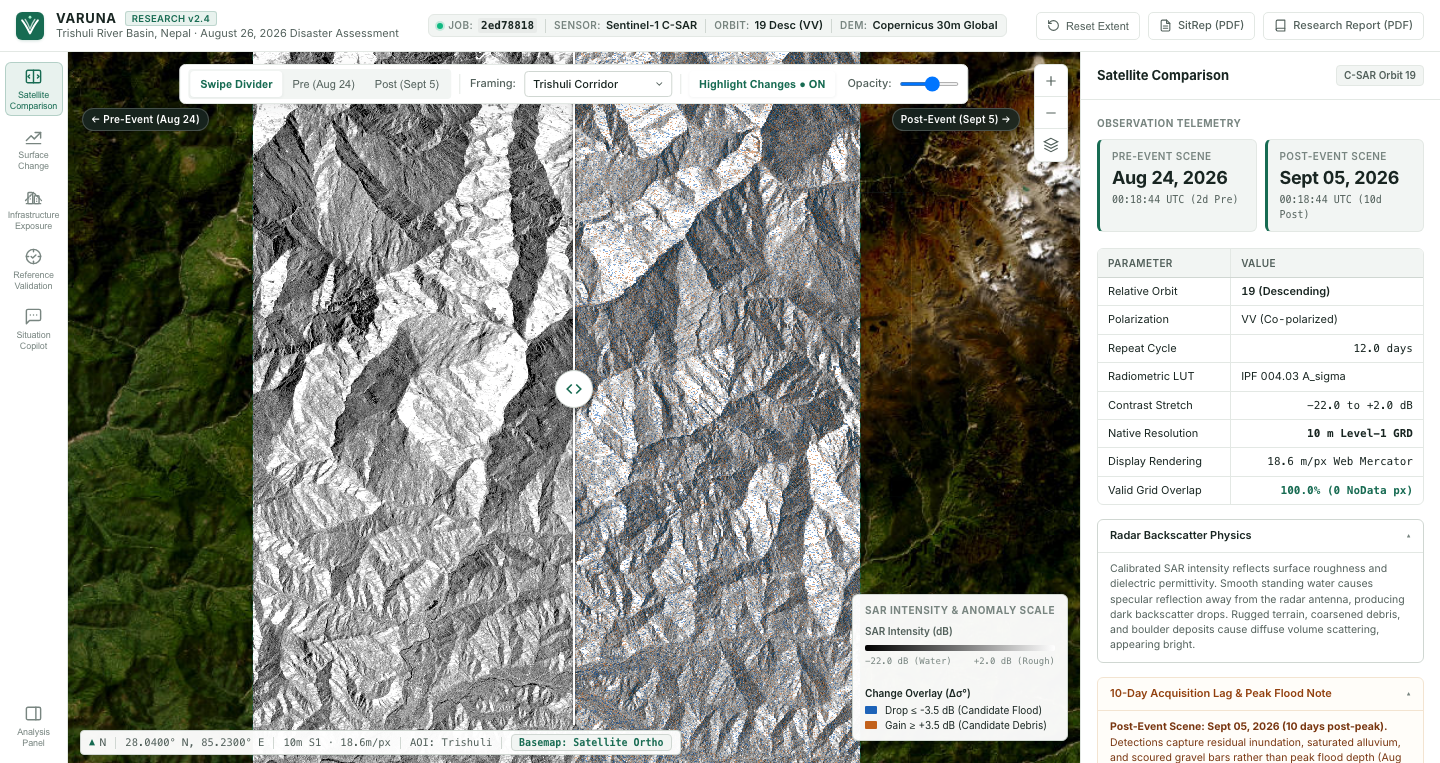
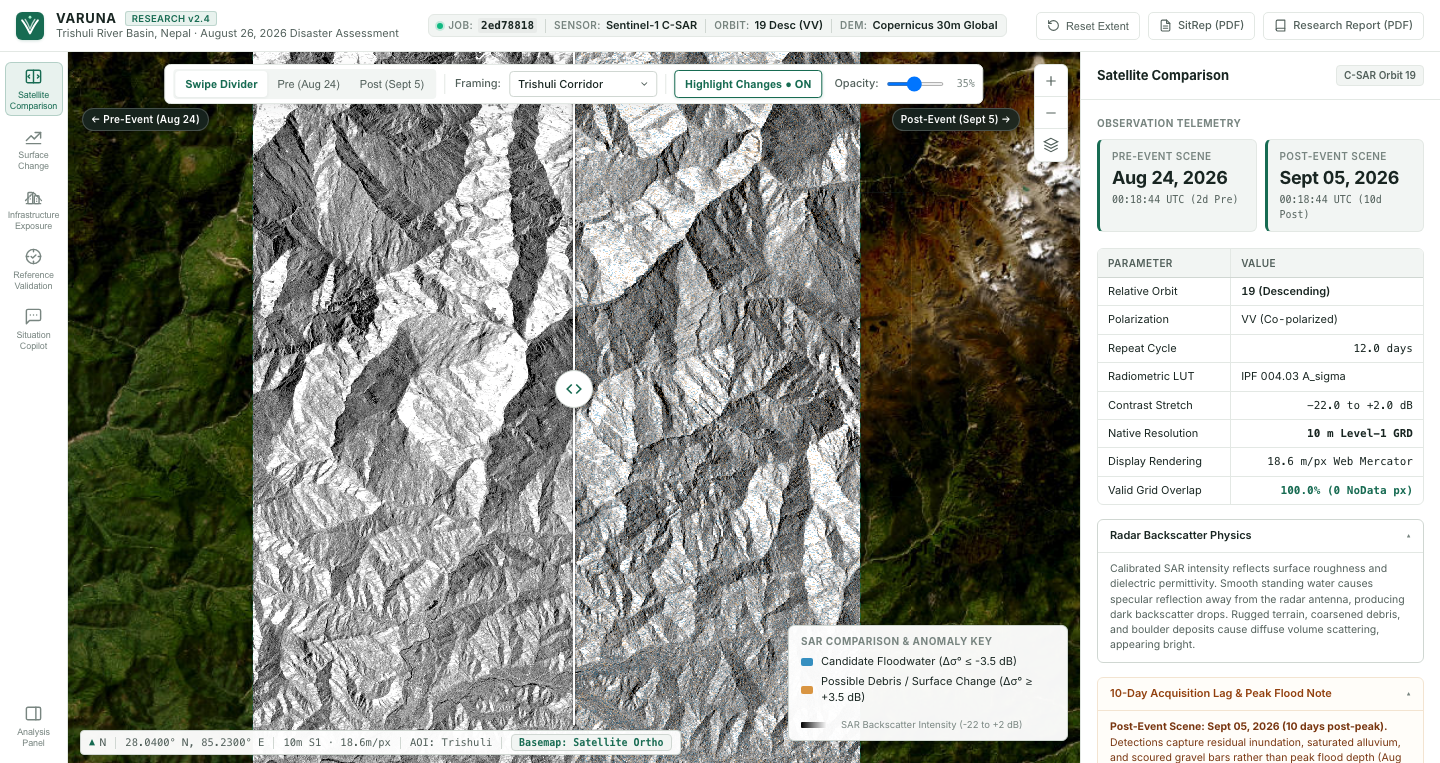
feat(comparison): refine satellite comparison with authentic SAR change highlight overlay (muted cyan/amber, 35% opacity, swipe synced)

Changed region(s): [[0.4062, 0.0904, 0.75, 1.0], [0.0938, 0.0904, 0.4375, 0.1507], [0.4375, 0.9948, 0.4688, 1.0]]

diff --git a/dashboard/app.js b/dashboard/app.js
@@ -16,8 +16,8 @@
     swipePosition: 0.5,            // 0.0 to 1.0 (fraction of map width)
     comparisonMode: 'swipe',       // 'swipe' | 'pre' | 'post'
     comparisonSector: 'full',      // 'full' | 'corridor' | 'aoi03' | 'aoi01'
-    highlightChanges: false,       // Authentic SAR backscatter change overlay (blue flood / orange debris)
-    highlightOpacity: 0.65,        // Overlay opacity for change interpretation
+    highlightChanges: false,       // Authentic SAR backscatter change overlay (muted blue flood / soft amber debris)
+    highlightOpacity: 0.35,        // Default 35% opacity for subtle, professional overlay (range 0% to 75%)
     copilotLang: 'en',             // 'en' | 'ne'
     panelOpen: true,
     inspectedFeature: null
@@ -124,6 +124,12 @@
     sarUnderlay: L.imageOverlay('rasters/s1_post_intensity_half.webp', RASTER_BOUNDS, {
       pane: 'paneSarUnderlay',
       opacity: 0.55,
+      interactive: false
+    }),
+    changeHighlight: L.imageOverlay('rasters/sar_change_highlight_half.png', RASTER_BOUNDS, {
+      pane: 'paneHazardRaster',
+      opacity: state.highlightOpacity,
+      className: 'layer-sar-change-highlight',
       interactive: false
     }),
     classified: L.imageOverlay('rasters/hazard_classified_half.png', RASTER_BOUNDS, {
@@ -332,7 +338,7 @@
     if (swipeLine) swipeLine.style.left = `${x}px`;
 
     const postEl = rasters.post.getElement();
-    const classEl = (state.highlightChanges && map.hasLayer(rasters.classified)) ? rasters.classified.getElement() : null;
+    const classEl = (state.highlightChanges && map.hasLayer(rasters.changeHighlight)) ? rasters.changeHighlight.getElement() : null;
     if (!postEl) return;
 
     if (state.comparisonMode === 'pre') {
@@ -466,8 +472,8 @@
       rasters.pre.addTo(map);
       rasters.post.addTo(map);
       if (state.highlightChanges) {
-        rasters.classified.setOpacity(state.highlightOpacity);
-        rasters.classified.addTo(map);
+        rasters.changeHighlight.setOpacity(state.highlightOpacity);
+        rasters.changeHighlight.addTo(map);
       }
       if (state.comparisonMode === 'swipe') {
         swipeContainer.classList.add('active');
@@ -562,10 +568,11 @@
           <option value="aoi01" ${state.comparisonSector === 'aoi01' ? 'selected' : ''}>Syapru Besi (AOI01)</option>
         </select>
         <div class="toolbar-divider"></div>
-        <button class="toolbar-segment-btn ${state.highlightChanges ? 'active' : ''}" id="btnToggleHighlightChanges" title="Toggle authentic SAR backscatter-change overlay (blue flood / orange debris)">Highlight Changes ${state.highlightChanges ? '● ON' : '○ OFF'}</button>
+        <button class="toolbar-segment-btn highlight-toggle ${state.highlightChanges ? 'active' : ''}" id="btnToggleHighlightChanges" title="Toggle authentic SAR backscatter change overlay (35% default opacity)">Highlight Changes ${state.highlightChanges ? '● ON' : '○ OFF'}</button>
         ${state.highlightChanges ? `
           <span class="toolbar-control-label" style="margin-left:4px;">Opacity:</span>
-          <input type="range" id="rngHighlightOpacity" min="20" max="100" value="${Math.round(state.highlightOpacity * 100)}" style="width:60px; height:4px; vertical-align:middle; cursor:pointer;" title="Change Overlay Opacity">
+          <input type="range" id="rngHighlightOpacity" min="0" max="75" value="${Math.round(state.highlightOpacity * 100)}" style="width:58px; height:4px; vertical-align:middle; cursor:pointer;" title="Adjust Change Overlay Opacity (0% - 75%)">
+          <span id="valHighlightOpacity" style="font-size:10px; font-family:var(--font-mono); color:var(--text-tertiary); width:24px; text-align:right;">${Math.round(state.highlightOpacity * 100)}%</span>
         ` : ''}
       `;
     } else if (ws === 'change') {
@@ -706,15 +713,17 @@
         btnHighlight.addEventListener('click', () => {
           state.highlightChanges = !state.highlightChanges;
           if (state.highlightChanges) {
-            rasters.classified.setOpacity(state.highlightOpacity);
-            rasters.classified.addTo(map);
+            rasters.changeHighlight.setOpacity(state.highlightOpacity);
+            rasters.changeHighlight.addTo(map);
             if (state.comparisonSector === 'full') {
               state.comparisonSector = 'corridor';
               map.fitBounds(EXTENTS.corridor.bounds, { padding: [15, 15] });
+              const selCompPreset = document.getElementById('selCompPreset');
+              if (selCompPreset) selCompPreset.value = 'corridor';
             }
           } else {
-            if (map.hasLayer(rasters.classified)) {
-              map.removeLayer(rasters.classified);
+            if (map.hasLayer(rasters.changeHighlight)) {
+              map.removeLayer(rasters.changeHighlight);
             }
           }
           updateSwipeDivider();
@@ -727,7 +736,9 @@
       if (rngHighlight) {
         rngHighlight.addEventListener('input', (e) => {
           state.highlightOpacity = parseFloat(e.target.value) / 100.0;
-          rasters.classified.setOpacity(state.highlightOpacity);
+          rasters.changeHighlight.setOpacity(state.highlightOpacity);
+          const valEl = document.getElementById('valHighlightOpacity');
+          if (valEl) valEl.textContent = `${Math.round(state.highlightOpacity * 100)}%`;
         });
       }
     } else if (ws === 'change') {
@@ -1435,20 +1446,19 @@ Generated: 2026-10-14 UTC | Disaster Date: August 26, 2026 | Sensor: Sentinel-1 
 
     if (ws === 'comparison') {
       if (state.highlightChanges) {
-        legendTitle.textContent = 'SAR Intensity & Anomaly Scale';
+        legendTitle.textContent = 'SAR Comparison & Anomaly Key';
         html = `
-          <div style="font-size:10px; font-weight:600; margin-bottom:3px; color:var(--text-secondary);">SAR Intensity (dB)</div>
           <div class="legend-row">
-            <div style="width:100%; height:6px; border-radius:2px; background:linear-gradient(to right, #000 0%, #777 50%, #fff 100%);"></div>
+            <div class="legend-swatch highlight-flood" style="width:12px; height:8px; border-radius:2px;"></div>
+            <span>Candidate Floodwater (Δσ° ≤ -3.5 dB)</span>
           </div>
-          <div style="display:flex; justify-content:space-between; font-size:9px; color:var(--text-tertiary); font-family:var(--font-mono); margin-bottom:6px;">
-            <span>-22.0 dB (Water)</span>
-            <span>+2.0 dB (Rough)</span>
+          <div class="legend-row">
+            <div class="legend-swatch highlight-debris" style="width:12px; height:8px; border-radius:2px;"></div>
+            <span>Possible Debris / Surface Change (Δσ° ≥ +3.5 dB)</span>
           </div>
-          <div style="border-top:1px solid var(--border-subtle); padding-top:4px; margin-top:3px;">
-            <div style="font-size:10px; font-weight:600; margin-bottom:3px; color:var(--text-primary);">Change Overlay (Δσ°)</div>
-            <div class="legend-row"><div class="legend-swatch flood" style="width:12px; height:8px;"></div><span style="font-size:10px;">Drop ≤ -3.5 dB (Candidate Flood)</span></div>
-            <div class="legend-row"><div class="legend-swatch debris" style="width:12px; height:8px;"></div><span style="font-size:10px;">Gain ≥ +3.5 dB (Candidate Debris)</span></div>
+          <div class="legend-row" style="margin-top:4px; padding-top:4px; border-top:1px solid var(--border-subtle); display:flex; align-items:center;">
+            <div style="width:26px; height:6px; border-radius:1px; background:linear-gradient(to right, #000, #888, #fff); margin-right:6px; flex-shrink:0;"></div>
+            <span style="font-size:9.5px; color:var(--text-tertiary);">SAR Backscatter Intensity (-22 to +2 dB)</span>
           </div>
         `;
       } else {

diff --git a/dashboard/styles.css b/dashboard/styles.css
@@ -457,6 +457,28 @@ html, body {
   box-shadow: var(--shadow-subtle);
 }
 
+.toolbar-segment-btn.highlight-toggle {
+  border: 1px solid var(--border-light);
+  background: var(--surface-secondary);
+}
+
+.toolbar-segment-btn.highlight-toggle:hover {
+  border-color: var(--border-medium);
+  background: var(--surface-primary);
+}
+
+.toolbar-segment-btn.highlight-toggle.active {
+  background: var(--surface-primary);
+  border-color: var(--accent-primary);
+  color: var(--accent-primary);
+  box-shadow: 0 1px 3px rgba(23, 107, 82, 0.15);
+}
+
+.layer-sar-change-highlight {
+  transition: opacity 200ms ease-in-out;
+  pointer-events: none;
+}
+
 .toolbar-divider {
   width: 1px;
   height: 20px;
@@ -775,6 +797,8 @@ html, body {
 
 .legend-swatch.flood { background: var(--hazard-flood); }
 .legend-swatch.debris { background: var(--hazard-debris); }
+.legend-swatch.highlight-flood { background: #368FC0; }
+.legend-swatch.highlight-debris { background: #D99542; }
 .legend-swatch.perm-water { background: var(--hazard-perm-water); }
 .legend-swatch.emsr { 
   background: rgba(109, 40, 217, 0.2); 
